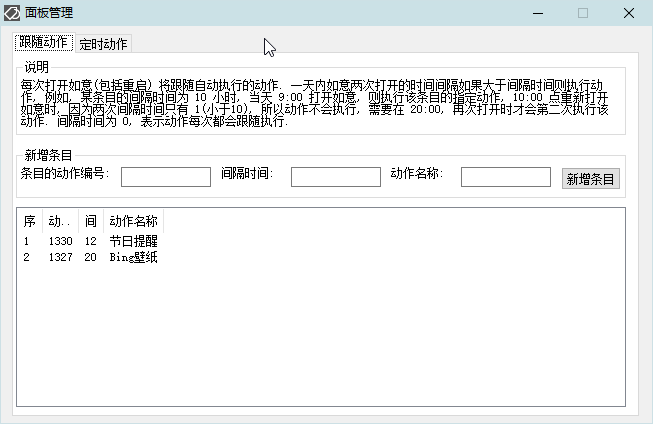
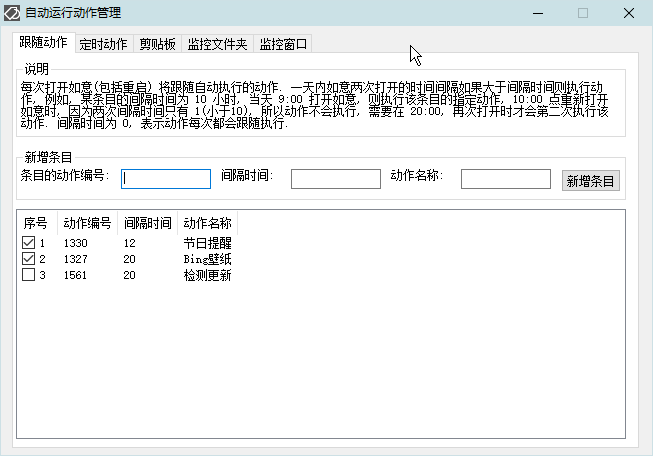
更新如意动作的说明文档

Changed region(s): [[0.0, 0.0, 1.0, 0.6439], [0.0306, 0.9505, 0.9495, 0.9811]]

diff --git a/RuYi-Ahk/actionlist.md b/RuYi-Ahk/actionlist.md
@@ -424,7 +424,7 @@ description: 如意百宝箱-Ahk 内置动作列表
 |[1411](http://127.0.0.1:5151/runcom?aabb=1411)|e149|[重启如意](/actions/1411.md)|无条件|重启如意|Cando&#124;TM_Reload|
 |[1412](http://127.0.0.1:5151/runcom?aabb=1412)|e8ec|[如意托盘菜单](/actions/1412.md)|无条件|显示如意的托盘菜单(右击托盘图标显示的菜单)|Cando&#124;TM_show|
 |[1413](http://127.0.0.1:5151/runcom?aabb=1413)|e8ec|[如意设置](/actions/1413.md)|无条件|显示如意的设置界面|Cando&#124;TM_SettingsM|
-|[1414](http://127.0.0.1:5151/runcom?aabb=1414)|e121|定时管理|无条件|跟随动作和定时动作管理界面|Cando&#124;TimingActionM|
+|[1414](http://127.0.0.1:5151/runcom?aabb=1414)|e121|定时管理|无条件|自动运行动作的管理界面(启动跟随,定时动作,监控剪贴板,监控文件夹,监控窗口)|Cando&#124;TimingActionM|
 |1415|f71c|窗口进程目录|任意窗口|打开窗口进程文件所在的目录(避免 QTTabBar 打开新窗口)|run&#124;"%B_Autohotkey%" "%A_ScriptDir%\外部脚本\窗口处理\打开窗口进程目录.ahk" "%Windy_CurWin_Fullpath%"|
 |[1416](http://127.0.0.1:5151/runcom?aabb=1416)|f8af|移动鼠标|无条件|移动鼠标到指定坐标并点击鼠标左键|run&#124;"%B_Autohotkey%" "%A_ScriptDir%\外部脚本\工具类\移动鼠标.ahk" "%CandySel%"|
 |[1417](http://127.0.0.1:5151/runcom?aabb=1417)|e961|屏蔽键盘|无条件|临时屏蔽键盘按键|run&#124;"%B_Autohotkey%" "%A_ScriptDir%\外部脚本\工具类\屏蔽键盘.ahk"|

diff --git a/RuYi-Ahk/actions/1414.md b/RuYi-Ahk/actions/1414.md
@@ -16,12 +16,15 @@ description: 如意百宝箱-Ahk 动作介绍
 **动作作用的对象**: 无条件  
 **动作热键**: 无  
 **动作鼠标手势**: 无  
-**动作说明**: 跟随动作和定时动作管理界面  
+**动作说明**: 自动运行动作的管理界面(启动跟随, 定时动作, 监控剪贴板, 监控文件夹, 监控窗口)  
 **动作截图**:  
-  ![热字串管理](img1/1414-1.png)  
-  ![热字串管理](img1/1414-2.png)  
+  ![启动跟随](img1/1414-1.png)  
+  ![定时动作](img1/1414-2.png)  
+  ![监控剪贴板](img1/1414-3.png)  
+  ![监控文件夹](img1/1414-4.png)  
+  ![监控窗口](img1/1414-5.png)  
 **动作内容**: Cando|TimingActionM  
 为如意内置的动作, 执行如意的内置的标签 "TimingActionM"  
 
 **代码或详细解释**:  
-显示一个设置窗口, 可以在该设置界面管理如意的跟随动作和定时动作.  
+显示一个设置窗口, 可以在该设置界面管理如意自动运行的动作.  

diff --git a/RuYi-Ahk/actions/1413.md b/RuYi-Ahk/actions/1413.md
@@ -21,6 +21,8 @@ description: 如意百宝箱-Ahk 动作介绍
   ![如意设置](img1/1413-1.png)  
   ![如意设置](img1/1413-2.png)  
   ![如意设置](img1/1413-3.png)  
+  ![如意设置](img1/1413-4.png)  
+  ![如意设置](img1/1413-5.png)  
 **动作内容**: Cando|TM_SettingsM  
 为如意内置的动作, 执行如意的内置的标签 "TM_SettingsM"  
 
